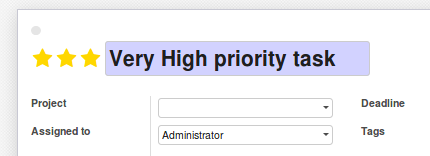
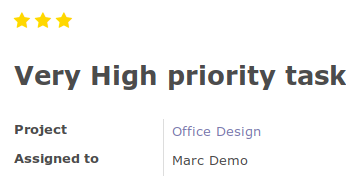
[FIX] Move priority widget before title

diff --git a/project_task_add_very_high/static/description/index.html b/project_task_add_very_high/static/description/index.html
@@ -3,7 +3,7 @@
 <html xmlns="http://www.w3.org/1999/xhtml" xml:lang="en" lang="en">
 <head>
 <meta http-equiv="Content-Type" content="text/html; charset=utf-8" />
-<meta name="generator" content="Docutils 0.14: http://docutils.sourceforge.net/" />
+<meta name="generator" content="Docutils 0.15.1: http://docutils.sourceforge.net/" />
 <title>Project Task Add Very High</title>
 <style type="text/css">
 

diff --git a/project_task_add_very_high/__manifest__.py b/project_task_add_very_high/__manifest__.py
@@ -4,7 +4,7 @@
 {
     "name": "Project Task Add Very High",
     "summary": "Adds extra options 'High' and 'Very High' on tasks",
-    "version": "12.0.1.0.0",
+    "version": "12.0.1.0.1",
     "development_status": "Production/Stable",
     "author": "Onestein, Odoo Community Association (OCA)",
     "maintainers": ["astirpe"],
@@ -12,6 +12,9 @@
     "category": "Project",
     "website": "https://github.com/OCA/project/",
     "depends": ["project"],
+    "data": [
+        "views/project_task_view.xml",
+    ],
     "installable": True,
     "uninstall_hook": "uninstall_hook"
 }
